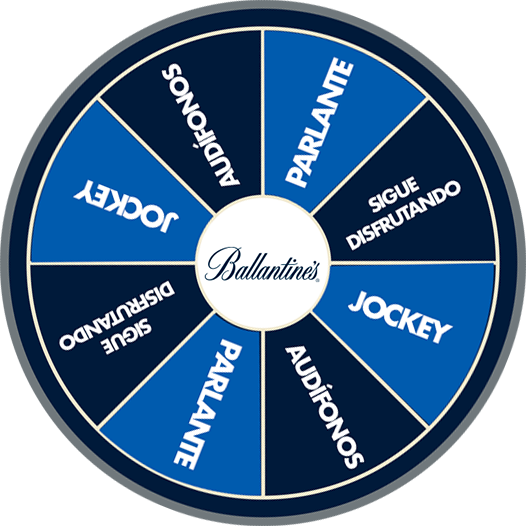
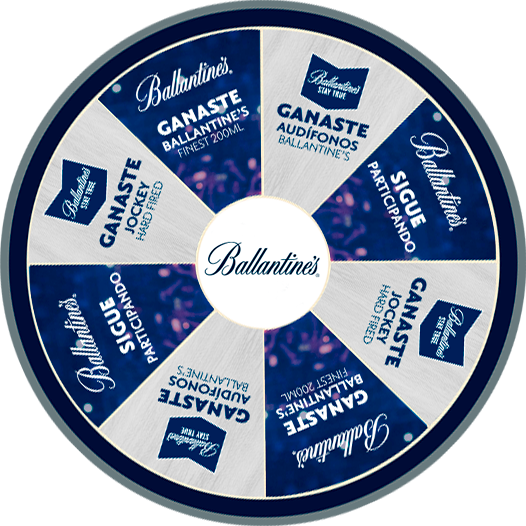
cambio de premios mayo 2018

diff --git a/platforms/browser/www/js/wheel.js b/platforms/browser/www/js/wheel.js
@@ -2,6 +2,7 @@
 var jockey =0;
 var parlante = 0;
 var audifono = 0;
+var finest = 0;
 
 
 
@@ -15,23 +16,8 @@ db.transaction(function(tx){
 	[], function(tx, results) {
 		console.log(results);
 		if(results.rows.length>0){
-			console.log('es mas de 0 -'+results.rows.item(0).number);
+			console.log('jockey :'+results.rows.item(0).number);
 			hola(results.rows.item(0).number);
-		}
-
-	});
-
-});
-
-db.transaction(function(tx){
-	var sql = "SELECT * FROM premios where name like ('%parlante%') limit 1";	
-	console.log(sql);	
-	tx.executeSql(sql,
-	[], function(tx, results) {
-		console.log(results);
-		if(results.rows.length>0){
-			console.log('parlante :'+results.rows.item(0).number);
-			hola1(results.rows.item(0).number);
 		}
 
 	});
@@ -46,6 +32,21 @@ db.transaction(function(tx){
 		console.log(results);
 		if(results.rows.length>0){
 			console.log('audifono :'+results.rows.item(0).number);
+			hola1(results.rows.item(0).number);
+		}
+
+	});
+
+});
+
+db.transaction(function(tx){
+	var sql = "SELECT * FROM premios where name like ('%finest%') limit 1";	
+	console.log(sql);	
+	tx.executeSql(sql,
+	[], function(tx, results) {
+		console.log(results);
+		if(results.rows.length>0){
+			console.log('finest :'+results.rows.item(0).number);
 			hola2(results.rows.item(0).number);
 		}
 
@@ -59,13 +60,13 @@ function hola(number){
 }
 
 function hola1(number){
-	parlante = number;
-	console.log(parlante);
+	audifono = number;
+	console.log(audifono);
 }
 
 function hola2(number){
-	audifono = number;
-	console.log(audifono);
+	finest = number;
+	console.log(finest);
 }
 
 
@@ -145,26 +146,26 @@ $(function(){
 					nombre_premios[4]="jockey";
 				}
 				
-				if(parlante>0){
-					console.log('hay parlante');
+				if(audifono>0){
+					console.log('hay audifonos');
 					premios[2]=135;
 					premios[6]=315;
-					nombre_premios[2]="parlante";
-					nombre_premios[6]="parlante";
+					nombre_premios[2]="audifono";
+					nombre_premios[6]="audifono";
 				}
 				
-				if(audifono>0){
-					console.log('hay audifono');
+				if(finest>0){
+					console.log('hay finest');
 					premios[3]=180;
 					premios[7]=360;
-					nombre_premios[3]="audífonos";
-					nombre_premios[7]="audífonos";
+					nombre_premios[3]="finest";
+					nombre_premios[7]="finest";
 				}
 				
 				console.log(nombre_premios);
 				
 				var random = Math.floor(Math.random()*premios.length);
-				var premiado = premios[random]
+				var premiado = premios[random];
 				
 				console.log('premiado:'+ premiado);
 				
@@ -219,8 +220,8 @@ $(function(){
 					console.log('win = ' + win);
 					console.log('premio = ' + premio);
 					
-					if(premio!='sigue disfrutando'){
-						if(premio == 'audífonos'){
+					if(premio!=='sigue disfrutando'){
+						if(premio === 'audífonos'){
 							descontar('audifonos');
 						}else{
 							descontar(premio);	
@@ -229,7 +230,7 @@ $(function(){
 										
 					//alert(premio);
 					$('#juego .tu_premio .box_premio').text(premio);
-					$('#juego .tu_premio').css({'display':'block'})
+					$('#juego .tu_premio').css({'display':'block'});
 					
 					//$('input[name=premio]').val(premio);
                    

diff --git a/www/js/wheel.js b/www/js/wheel.js
@@ -2,6 +2,7 @@
 var jockey =0;
 var parlante = 0;
 var audifono = 0;
+var finest = 0;
 
 
 
@@ -15,23 +16,8 @@ db.transaction(function(tx){
 	[], function(tx, results) {
 		console.log(results);
 		if(results.rows.length>0){
-			console.log('es mas de 0 -'+results.rows.item(0).number);
+			console.log('jockey :'+results.rows.item(0).number);
 			hola(results.rows.item(0).number);
-		}
-
-	});
-
-});
-
-db.transaction(function(tx){
-	var sql = "SELECT * FROM premios where name like ('%parlante%') limit 1";	
-	console.log(sql);	
-	tx.executeSql(sql,
-	[], function(tx, results) {
-		console.log(results);
-		if(results.rows.length>0){
-			console.log('parlante :'+results.rows.item(0).number);
-			hola1(results.rows.item(0).number);
 		}
 
 	});
@@ -46,6 +32,21 @@ db.transaction(function(tx){
 		console.log(results);
 		if(results.rows.length>0){
 			console.log('audifono :'+results.rows.item(0).number);
+			hola1(results.rows.item(0).number);
+		}
+
+	});
+
+});
+
+db.transaction(function(tx){
+	var sql = "SELECT * FROM premios where name like ('%finest%') limit 1";	
+	console.log(sql);	
+	tx.executeSql(sql,
+	[], function(tx, results) {
+		console.log(results);
+		if(results.rows.length>0){
+			console.log('finest :'+results.rows.item(0).number);
 			hola2(results.rows.item(0).number);
 		}
 
@@ -59,13 +60,13 @@ function hola(number){
 }
 
 function hola1(number){
-	parlante = number;
-	console.log(parlante);
+	audifono = number;
+	console.log(audifono);
 }
 
 function hola2(number){
-	audifono = number;
-	console.log(audifono);
+	finest = number;
+	console.log(finest);
 }
 
 
@@ -145,26 +146,26 @@ $(function(){
 					nombre_premios[4]="jockey";
 				}
 				
-				if(parlante>0){
-					console.log('hay parlante');
+				if(audifono>0){
+					console.log('hay audifonos');
 					premios[2]=135;
 					premios[6]=315;
-					nombre_premios[2]="parlante";
-					nombre_premios[6]="parlante";
+					nombre_premios[2]="audifono";
+					nombre_premios[6]="audifono";
 				}
 				
-				if(audifono>0){
-					console.log('hay audifono');
+				if(finest>0){
+					console.log('hay finest');
 					premios[3]=180;
 					premios[7]=360;
-					nombre_premios[3]="audífonos";
-					nombre_premios[7]="audífonos";
+					nombre_premios[3]="finest";
+					nombre_premios[7]="finest";
 				}
 				
 				console.log(nombre_premios);
 				
 				var random = Math.floor(Math.random()*premios.length);
-				var premiado = premios[random]
+				var premiado = premios[random];
 				
 				console.log('premiado:'+ premiado);
 				
@@ -219,8 +220,8 @@ $(function(){
 					console.log('win = ' + win);
 					console.log('premio = ' + premio);
 					
-					if(premio!='sigue disfrutando'){
-						if(premio == 'audífonos'){
+					if(premio!=='sigue disfrutando'){
+						if(premio === 'audífonos'){
 							descontar('audifonos');
 						}else{
 							descontar(premio);	
@@ -229,7 +230,7 @@ $(function(){
 										
 					//alert(premio);
 					$('#juego .tu_premio .box_premio').text(premio);
-					$('#juego .tu_premio').css({'display':'block'})
+					$('#juego .tu_premio').css({'display':'block'});
 					
 					//$('input[name=premio]').val(premio);
                    
